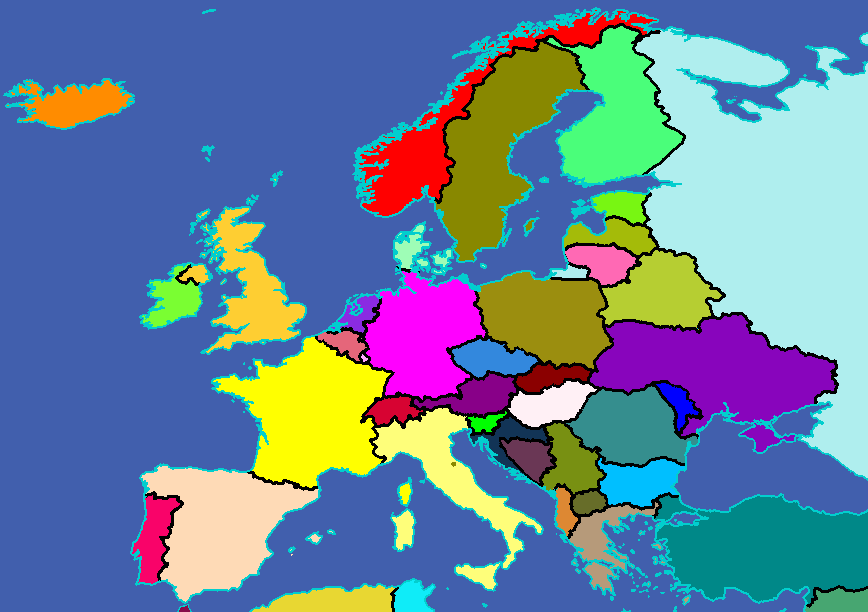
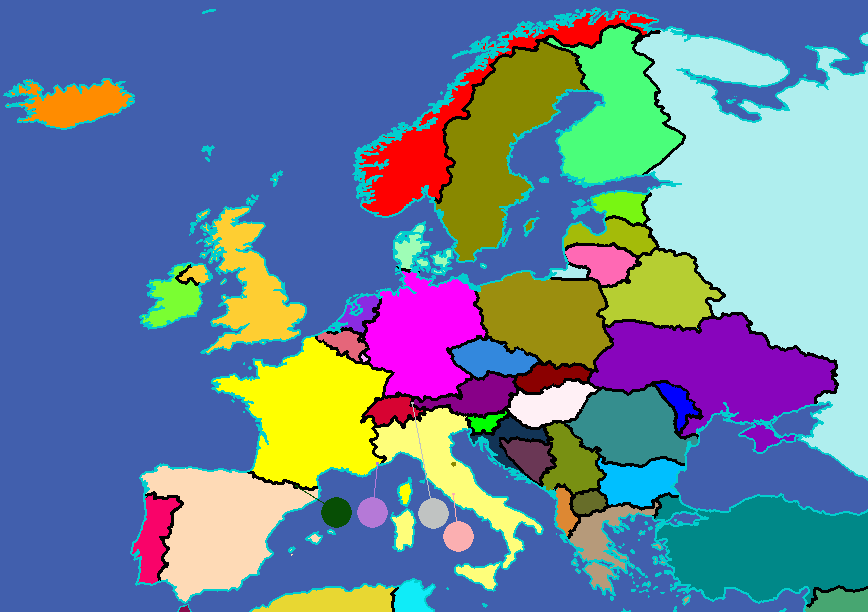
Add Monaco, Andorra, Vatican and Liechtenstein to Europe Map Map fixes and flags by Blanka Biteznik
svn path=/trunk/KDE/kdeedu/kgeography/; revision=519849

Changed region(s): [[0.3733, 0.8072, 0.5599, 0.9003]]

diff --git a/src/mapsdatatranslation.cpp b/src/mapsdatatranslation.cpp
@@ -1080,6 +1080,12 @@ i18n("europe.kgm", "The flag of Albania is...");
 i18n("europe.kgm", "Tirana");
 i18n("europe.kgm", "Tirana is the capital of...");
 i18n("europe.kgm", "Algeria");
+i18n("europe.kgm", "Andorra");
+i18n("europe.kgm", "The capital of Andorra is...");
+i18n("europe.kgm", "Please click on:\nAndorra");
+i18n("europe.kgm", "The flag of Andorra is...");
+i18n("europe.kgm", "Andorra la Vella");
+i18n("europe.kgm", "Andorra la Vella is the capital of...");
 i18n("europe.kgm", "Austria");
 i18n("europe.kgm", "The capital of Austria is...");
 i18n("europe.kgm", "Please click on:\nAustria");
@@ -1194,6 +1200,12 @@ i18n("europe.kgm", "Please click on:\nLatvia");
 i18n("europe.kgm", "The flag of Latvia is...");
 i18n("europe.kgm", "Riga");
 i18n("europe.kgm", "Riga is the capital of...");
+i18n("europe.kgm", "Liechtenstein");
+i18n("europe.kgm", "The capital of Liechtenstein is...");
+i18n("europe.kgm", "Please click on:\nLiechtenstein");
+i18n("europe.kgm", "The flag of Liechtenstein is...");
+i18n("europe.kgm", "Vaduz");
+i18n("europe.kgm", "Vaduz is the capital of...");
 i18n("europe.kgm", "Lithuania");
 i18n("europe.kgm", "The capital of Lithuania is...");
 i18n("europe.kgm", "Please click on:\nLithuania");
@@ -1212,6 +1224,12 @@ i18n("europe.kgm", "Please click on:\nMoldova");
 i18n("europe.kgm", "The flag of Moldova is...");
 i18n("europe.kgm", "Chisinau");
 i18n("europe.kgm", "Chisinau is the capital of...");
+i18n("europe.kgm", "Monaco");
+i18n("europe.kgm", "The capital of Monaco is...");
+i18n("europe.kgm", "Please click on:\nMonaco");
+i18n("europe.kgm", "The flag of Monaco is...");
+i18n("europe.kgm", "Monaco");
+i18n("europe.kgm", "Monaco is the capital of...");
 i18n("europe.kgm", "Morocco");
 i18n("europe.kgm", "Netherlands");
 i18n("europe.kgm", "The capital of Netherlands is...");
@@ -1311,6 +1329,12 @@ i18n("europe.kgm", "Please click on:\nUnited Kingdom");
 i18n("europe.kgm", "The flag of United Kingdom is...");
 i18n("europe.kgm", "London");
 i18n("europe.kgm", "London is the capital of...");
+i18n("europe.kgm", "Vatican City");
+i18n("europe.kgm", "The capital of Vatican City is...");
+i18n("europe.kgm", "Please click on:\nVatican City");
+i18n("europe.kgm", "The flag of Vatican City is...");
+i18n("europe.kgm", "Vatican City");
+i18n("europe.kgm", "Vatican City is the capital of...");
 i18n("france.kgm", "France");
 i18n("france.kgm", "<qt>Current map:<br><b>France</b></qt>");
 i18n("france.kgm", "Not France");
